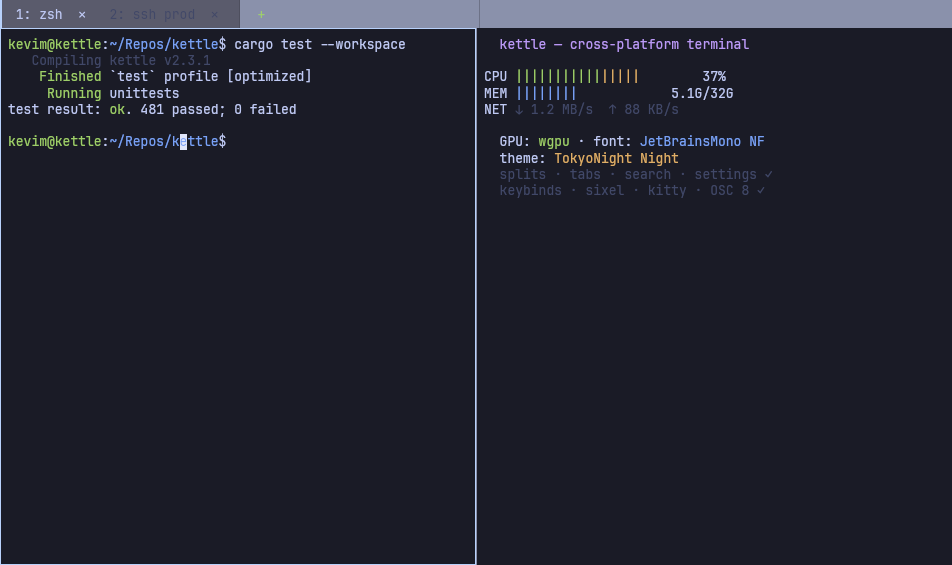
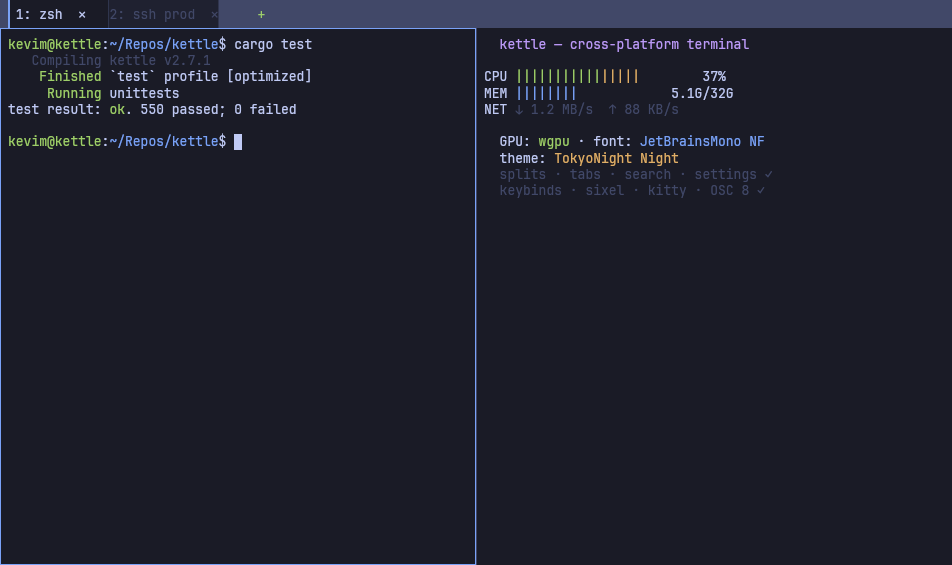
docs(screenshots): fix demo-scene cursor + tab placement, refresh PNGs (cycle 859)
The committed README hero/showcase screenshots were stale (baked v2.3.1 + old
test count) and the demo scene (capture_png_with) had two placement bugs the user
spotted:

- Block cursor hardcoded at column 22 — but the prompt
  `kevim@kettle:~/Repos/kettle$ ` is 29 cols, so the cursor sat mid-path on the
  "e" of ~/Repos/kettle. Now anchored to the prompt's end column (29), with the
  command shortened to `cargo test` so it never wraps in the narrow showcase
  split (a wrap would push every line down and desync the fixed cursor row).

- Tab chrome used fixed 240px segments (~2x the ~120px labels), so the inactive
  tab's text floated inside the active tab's highlight. Each tab's background +
  separators are now sized to its label (shared label constants keep glyphs and
  chrome in sync), and the inactive tab gets a readable muted dark background
  (it was grey-on-grey-invisible against the palette[8] bar once sized right).

Test count 481->550; the version label already auto-tracks the crate version
(cycle 771), now showing v2.7.1. Both PNGs regenerated on the real GPU path.
gauntlet green.

diff --git a/crates/kettle-render/src/lib.rs b/crates/kettle-render/src/lib.rs
@@ -3814,29 +3814,56 @@ pub fn capture_png_with_annotation(
         let mut q: Vec<QuadInstance> = Vec::new();
 
         // --- Tab bar (redesigned: active accent + per-tab ✕ + trailing +).
+        //
+        // Tab labels are defined once and reused for BOTH the chrome geometry
+        // and the text buffer below, so the highlighted segment + separators
+        // always line up with the glyphs. Cycle 859 (audit): the old fixed
+        // 240px segments were ~2× wider than the ~120px labels, so the second
+        // tab's text floated inside the first tab's highlight.
+        let tab0_label = " 1: zsh  ✕   ";
+        let tab1_label = "2: ssh prod  ✕";
+        let tabplus_label = "     +";
+        // Monospace: one cell == `cw`, so a label's pixel width is its char
+        // count × `cw`.
+        let tab_text_left = 8.0_f32;
+        let w0 = tab0_label.chars().count() as f32 * cw;
+        let w1 = tab1_label.chars().count() as f32 * cw;
         q.push(rect(0.0, 0.0, wf, tab_h, theme.palette[8], 1.0));
-        let segw = 240.0_f32.min((wf - 44.0) / 2.0);
-        // Active tab 0: themed background + left accent bar.
-        // Cycle 293: cascade through accent-color so peacock works
-        // in --screenshot too (same code path the live renderer uses
-        // at line 572, but capture_png_with builds its own synthetic
-        // scene rather than calling render_frame, so the cascade has
-        // to be duplicated here).
+        // Active tab 0: themed background + left accent bar, sized to its label.
+        // Cycle 293: cascade through accent-color so peacock works in
+        // --screenshot too (same order the live renderer uses).
         let screenshot_accent = cfg.accent_color.unwrap_or(theme.palette[4]);
-        q.push(rect(0.0, 0.0, segw, tab_h, theme.background, 1.0));
-        q.push(rect(0.0, 0.0, 2.0, tab_h, screenshot_accent, 1.0));
-        // Per-segment separators.
-        q.push(rect(segw - 1.0, 0.0, 1.0, tab_h, theme.background, 0.5));
+        q.push(rect(tab_text_left, 0.0, w0, tab_h, theme.background, 1.0));
+        q.push(rect(tab_text_left, 0.0, 2.0, tab_h, screenshot_accent, 1.0));
+        // Inactive tab 1: a mostly-solid dark box (slight bar tint so it reads
+        // as "muted" vs the active tab) — without its own background the dim
+        // label would sit grey-on-grey against the `palette[8]` bar
+        // (cycle 859, audit).
         q.push(rect(
-            2.0 * segw - 1.0,
+            tab_text_left + w0,
+            0.0,
+            w1,
+            tab_h,
+            theme.background,
+            0.9,
+        ));
+        // Subtle separators at each tab's right edge.
+        q.push(rect(
+            tab_text_left + w0 - 1.0,
             0.0,
             1.0,
             tab_h,
-            theme.background,
-            0.5,
+            theme.palette[8],
+            0.7,
         ));
-        // Trailing new-tab (+) button.
-        q.push(rect(2.0 * segw, 0.0, 40.0, tab_h, theme.palette[8], 1.0));
+        q.push(rect(
+            tab_text_left + w0 + w1 - 1.0,
+            0.0,
+            1.0,
+            tab_h,
+            theme.palette[8],
+            0.7,
+        ));
 
         // --- Two-pane vertical split with focus border on the left pane.
         q.push(rect(
@@ -3860,10 +3887,16 @@ pub fn capture_png_with_annotation(
         q.push(rect(0.0, ly, 1.0, lh, foc, 1.0));
         q.push(rect(split_x - 1.0, ly, 1.0, lh, foc, 1.0));
 
-        // Block cursor on the left pane's active prompt line.
+        // Block cursor sitting at the end of the left pane's idle prompt
+        // (`kevim@kettle:~/Repos/kettle$ ` = 29 columns, so the cursor's empty
+        // input cell is column 29). Cycle 859 (audit): the prompt text was
+        // lengthened but this column wasn't, leaving the cursor stranded
+        // mid-path on the "e" of `~/Repos/kettle`. Keep `cur_col` in sync with
+        // the final prompt line in the `left` buffer below.
         let cur_row = 6.0;
+        let cur_col = 29.0;
         q.push(rect(
-            pad + 22.0 * cw,
+            pad + cur_col * cw,
             ly + pad + cur_row * ch,
             cw,
             ch,
@@ -3887,9 +3920,9 @@ pub fn capture_png_with_annotation(
         tab_buf.set_rich_text(
             &mut font_system,
             [
-                (" 1: zsh  ✕   ", fg.clone()),
-                ("2: ssh prod  ✕", dim.clone()),
-                ("     +", grn.clone()),
+                (tab0_label, fg.clone()),
+                (tab1_label, dim.clone()),
+                (tabplus_label, grn.clone()),
             ],
             &base,
             Shaping::Advanced,
@@ -3909,7 +3942,11 @@ pub fn capture_png_with_annotation(
                 ("kevim@kettle", grn.clone()),
                 (":", fg.clone()),
                 ("~/Repos/kettle", blu.clone()),
-                ("$ cargo test --workspace\n", fg.clone()),
+                // Keep this command short enough that it never wraps even in the
+                // narrow showcase split (~50-col left pane) — a wrap would push
+                // every line down one and strand the hardcoded `cur_row` cursor
+                // on a blank line (cycle 859, audit).
+                ("$ cargo test\n", fg.clone()),
                 ("   Compiling ", dim.clone()),
                 (compile_line.as_str(), dim.clone()),
                 ("    Finished ", grn.clone()),
@@ -3918,7 +3955,7 @@ pub fn capture_png_with_annotation(
                 ("unittests\n", fg.clone()),
                 ("test result: ", fg.clone()),
                 ("ok", grn.clone()),
-                (". 481 passed; 0 failed\n\n", fg.clone()),
+                (". 550 passed; 0 failed\n\n", fg.clone()),
                 ("kevim@kettle", grn.clone()),
                 (":", fg.clone()),
                 ("~/Repos/kettle", blu.clone()),

diff --git a/CHANGELOG.md b/CHANGELOG.md
@@ -9,6 +9,20 @@ durable, fully-tested cycles (lint · build · test · docs · commit · CI).
   Substantive fixes from a third, whole-codebase systematic sweep (every file +
   cross-cutting concerns reviewed; 82 findings 2-skeptic-verified; cycles 829+):
 
+  - **Docs (cycle 859) — README hero / showcase screenshots refreshed + demo
+    scene fixed.** The committed screenshots were stale (baked `v2.3.1`, old test
+    count) and had two demo-scene bugs: the block cursor was hardcoded at column
+    22 — stranded mid-path on the prompt's `~/Repos/kettle` instead of at the
+    line end — and the tab chrome used fixed 240px segments ~2× the label width,
+    so the inactive tab's text floated inside the active tab's highlight (and was
+    grey-on-grey-invisible once its background was sized correctly). The cursor
+    now anchors to the prompt's true end column, each tab's chrome is sized to
+    its label (shared label constants keep glyphs + chrome in sync), the inactive
+    tab gets a readable muted background, and the demo command is kept short
+    enough never to wrap in the narrow showcase split (which would otherwise
+    desync the cursor row). Both PNGs regenerated; version + test count now
+    current.
+
   - **Correctness/cleanup (cycle 858, audit) — four small fixes.** (1) Config
     float values now reject `NaN`/`inf` before clamping (`clamp(NaN)` returns
     `NaN`, which would have poisoned opacity/cell-size/darkness etc.); a
